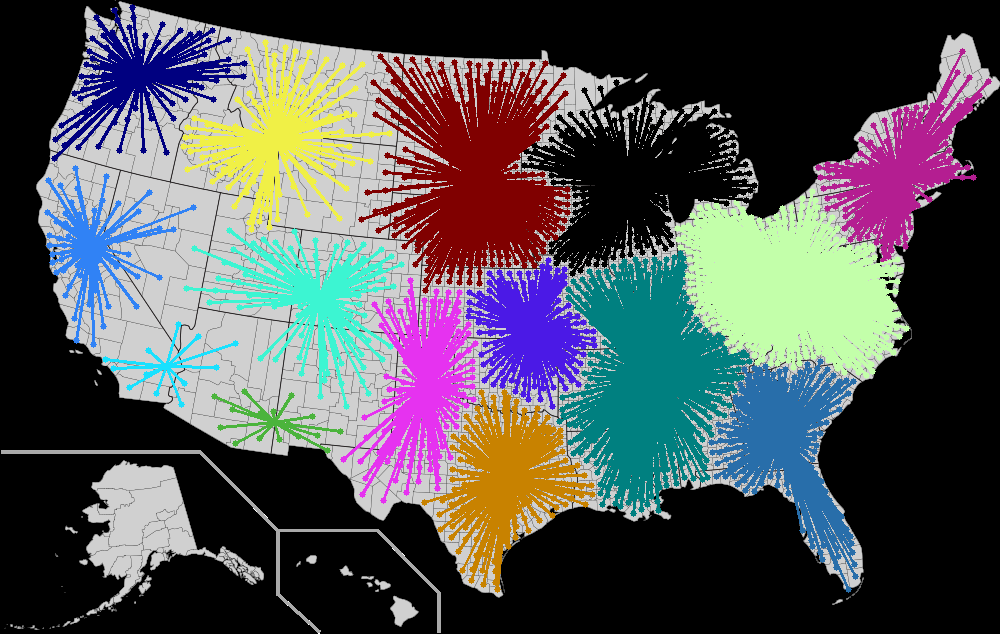
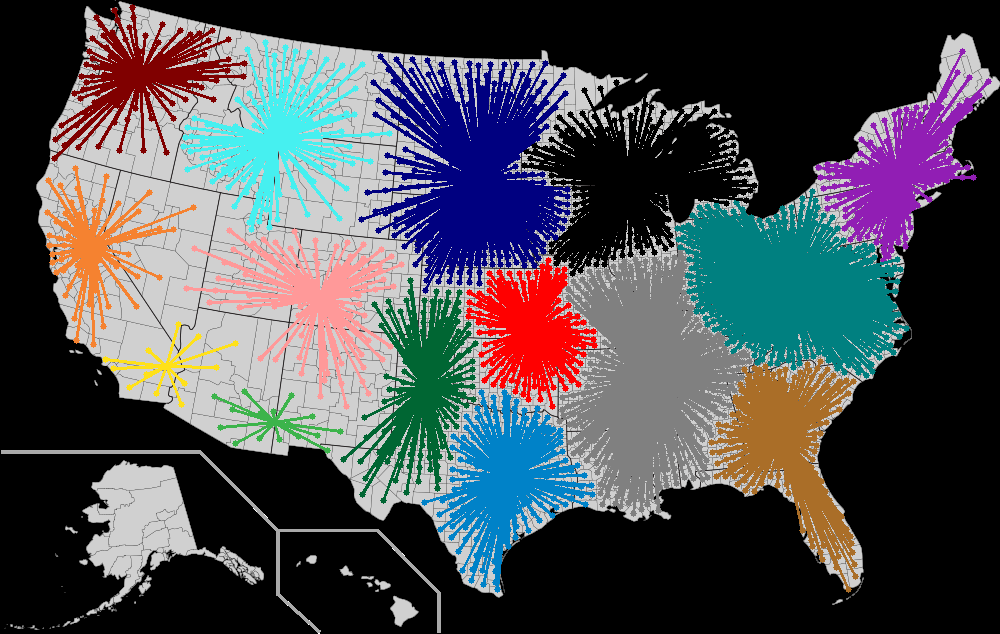
adjust colors

Changed region(s): [[0.031, 0.0, 0.992, 0.929]]

diff --git a/lab6/clustering.py b/lab6/clustering.py
@@ -5,18 +5,18 @@ import cv2
 import pickle
 
 COLORS = [
-    (230, 25, 75),
+    (255, 0, 0),
     (60, 180, 75),
     (255, 225, 25),
     (0, 130, 200),
     (245, 130, 48),
     (145, 30, 180),
     (70, 240, 240),
-    (240, 50, 230),
-    (210, 245, 60),
+    (0, 102, 51),
+    (255,153,153),
     (128, 0, 0),
-    (170, 255, 195),
-    (128, 128, 0),
+    (0, 128, 128),
+    (128, 128, 128),
     (0,0,0),
     (0, 0, 128),
     (170, 110, 40)]
@@ -143,6 +143,7 @@ def plot(img,clusters,colors=COLORS):
         y = float(y)/float(len(cluster))
         centroid = (int(x),int(y))
         color = colors[i]
+        color = (color[2],color[1],color[0])
         for c in cluster:
             point = (int(c[1]),int(c[2]))
             cv2.circle(im,point,radius=radius,color=color,thickness=-2)
